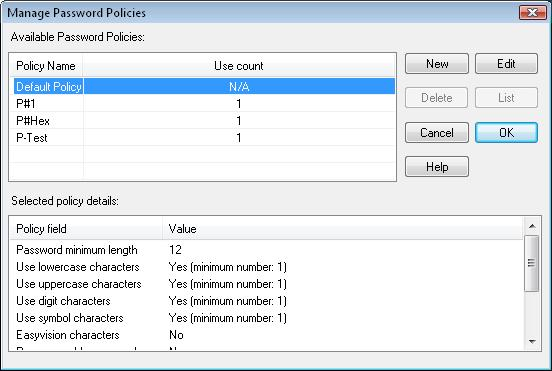
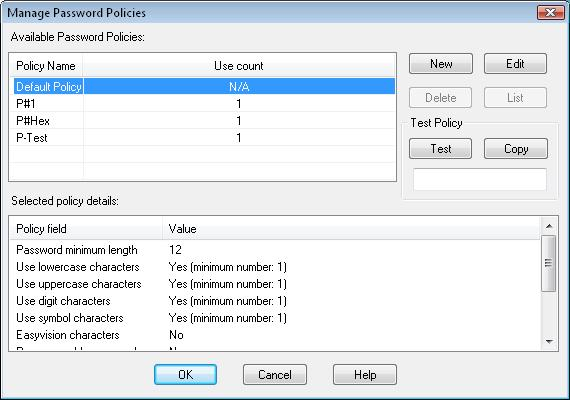
Update Help to correspond to current build

diff --git a/help/default/html/named_password_policies.html b/help/default/html/named_password_policies.html
@@ -25,7 +25,7 @@ menu also replaces the setting of the database defaults via the
 create, edit or delete any new "Named" policies.  Also, you cannot delete a named
 policy that is being used by at least one entry in the database.  After selecting a
 policy, its details will be shown below.  You can also List the entries referencing
-a <b>Named Password Policy</b> by clicking on the List button and then go back to its details
+a Named Password Policy by clicking on the List button and then go back to its details
 by clicking on the Details button.  If the list of entries is displayed, you can double
 click on an entry to edit/view it.</p>
 
@@ -41,7 +41,7 @@ in blue.</p>
 <h3>Add a New Named Password Policy</h3>
 
 <p>By selecting the New button, the following dialog is used to add a new
-<b>Named Password Policy</b>. The initial values are taken from the current database's
+Named Password Policy. The initial values are taken from the current database's
 default password policy. In addition to the normal checks on the consistency of the
 information you enter, you must also provide provide a unique name (within this database)
 for this policy. Note: The name cannot exceed 255 characters in length.</p>
@@ -49,9 +49,9 @@ for this policy. Note: The name cannot exceed 255 characters in length.</p>
 
 <h3>Edit an Existing New Named Password Policy</h3>
 
-<p>When a <b>Named Password Policy</b> is selected, you may use the Edit button to
+<p>When a Named Password Policy is selected, you may use the Edit button to
 change its values and the following dialog is shown. You may not change the name
-of an existing <b>Named Password Policy</b>.</p>
+of an existing Named Password Policy.</p>
 <img alt="Edit a named password policies dialog" src="images/edit_named_policy.jpg">
 
 <h3>Add/Edit entry and the Generate Password functions</h3>
@@ -61,16 +61,28 @@ function have both been updated to allow an entry to use a named policy or to al
 the generation of a random password using a Named policy.  One reason to keep unused
 Named Password Policies is to allow them to to be used only to generate random passwords.</p>
 
+<h3>Testing a Password Policy</h3>
+
+<p>You may select the default or any defined Named Password Policy and click the Test button
+to create a random password using its rules.  You may also then copy this to the clipboard.</p>
+
+<h3>Read-Only Databases</h3>
+
+<p>If the database is in read-only mode, you may not add a new Named Password Policy, edit
+the database default policy or an existing Named Password Policy nor delete an unused
+Named Password Policy.  You may, however, View both the default and other policies. Any
+changes made to this policy whilst viewing will not be saved.</p>
+
 <h2>XML and Text Import/Export</h2>
 
 <p> When a database is exported to XML (whether it is a specific subset of the
 entries in the database or the whole database), <u>all</u> the <b>Named Password
 Policies</b> in the current database are also exported.  During the subsequent import of
 that XNL file, all the <b>Named Pasword Policies</b> are also imported into the current
-database.  If a <b>Named Password Policy</b> of the same name already exists in
+database.  If a Named Password Policy of the same name already exists in
 the current database and it has the same policy settings as that being imported, then it
 will be used by any entries referencing it when they are imported.  However, if the
-imported <b>Named Password Policy</b> has different policy settings to that in the
+imported Named Password Policy has different policy settings to that in the
 database with the same name, then the policy will be imported with the words
 "Imported - <i>datetime</i>" appended to its name (where the '<i>datetime</i>' is the
 date/time of the Import) and all imported entries refering to it will now reference
@@ -93,11 +105,11 @@ will be placed in the Import log show which entries have been affected.</p>
 <h2>Merge and Drag &amp; Drop</h2>
 
 <p>When a whole or subset of a database is merged into the current database, any
-<b>Named Password Policy</b> referenced by the entries being merged will be brought
-across from the source database. If a <b>Named Password Policy</b> of the same name
+Named Password Policy referenced by the entries being merged will be brought
+across from the source database. If a Named Password Policy of the same name
 already exists in the current database and it has the same policy settings as that being
 copied across, then it will be used by any entries referencing is are merged.  However,
-if the imported <b>Named Password Policy</b> has different policy settings to that in
+if the imported Named Password Policy has different policy settings to that in
 the database with the same name, then it will be imported with the word
 "Merged - <i>datetime</i>" appended to its name (where the '<i>datetime</i>' is the
 date/time of the Merge) and all entries refering to it will now reference the newly
@@ -105,7 +117,7 @@ named policy.</p>
 
 <p>Similarly, when one or more entries are dragged from another database and dropped into
 the current database except "Drag - <i>datetime</i>" will be used to make the
-<b>Named Password Policy</b> unique.</p>
+Named Password Policy unique.</p>
 
 <!-- Added some white space at the bottom for natural scrolling -->
 <br>
